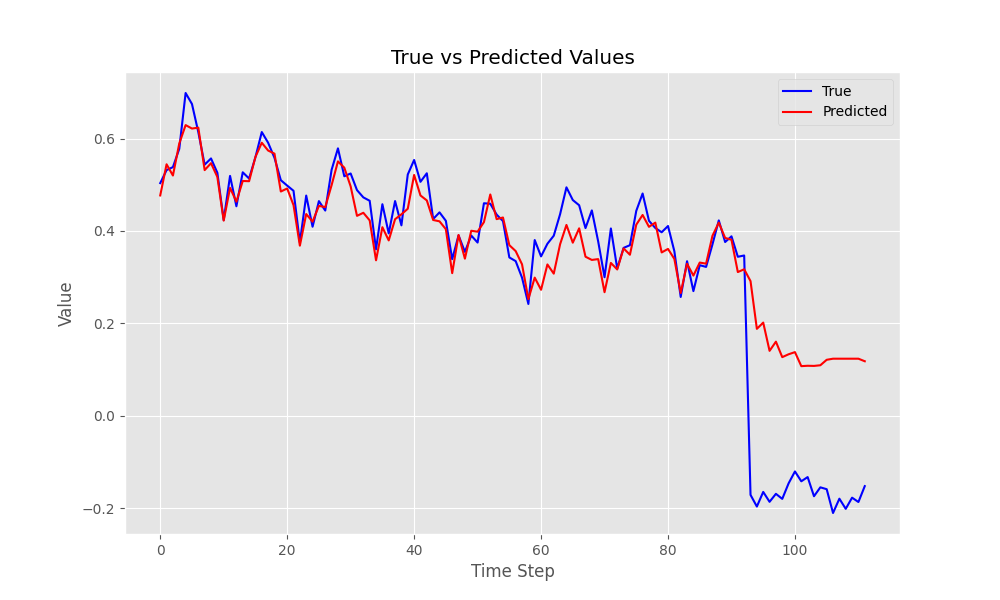
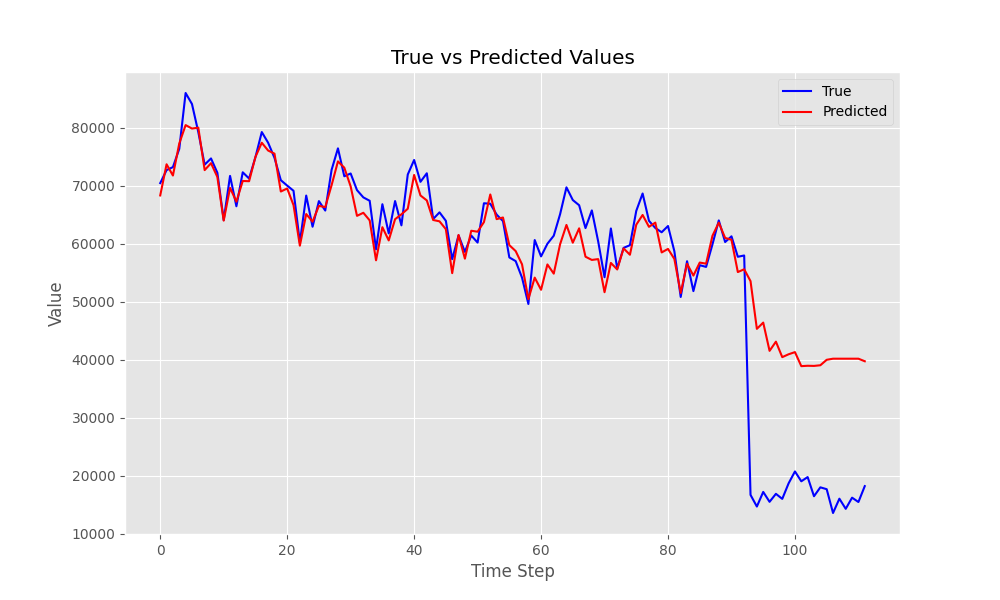
Unit results

diff --git a/nn.py b/nn.py
@@ -274,15 +274,21 @@ if __name__ == "__main__":
     nn_model.pipeline(epochs=n_epochs, batch_size=batch_size, lr=learning_rate)
     nn_model.save_results()
 
+    # Inverse transform the predictions and true values for plotting
+    y_ts_inv = nn_model.scaler.inverse_transform(nn_model.y_ts.reshape(-1, 1)).flatten()
+    y_hats_inv = nn_model.scaler.inverse_transform(nn_model.y_hats.reshape(-1, 1)).flatten()
+
     # Plot final results
     plt.figure(figsize=(10, 6))
-    plt.plot(nn_model.y_ts, label='True', color='blue')
-    plt.plot(nn_model.y_hats, label='Predicted', color='red')
+    plt.plot(y_ts_inv, label='True', color='blue')
+    plt.plot(y_hats_inv, label='Predicted', color='red')
     plt.xlabel('Time Step')
     plt.ylabel('Value')
     plt.title('True vs Predicted Values')
     plt.legend()
-    plt.show()
+
+    # Save final plot
+    plt.savefig('results/nn/forecast.png')
 
     # Calculate metrics
     mse = np.mean((nn_model.y_ts - nn_model.y_hats) ** 2)
